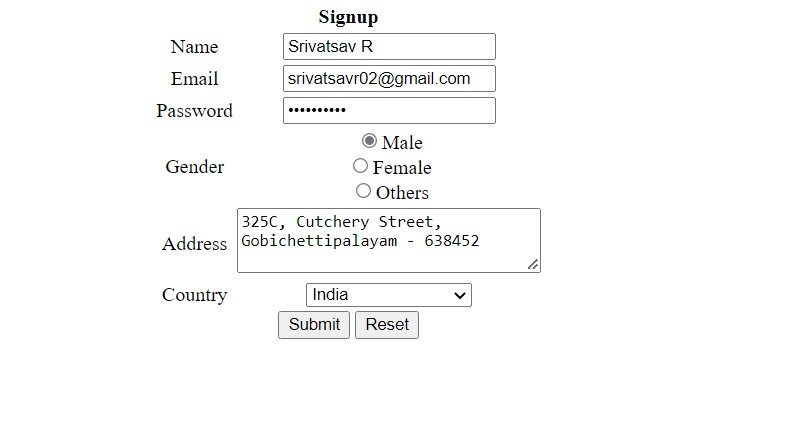
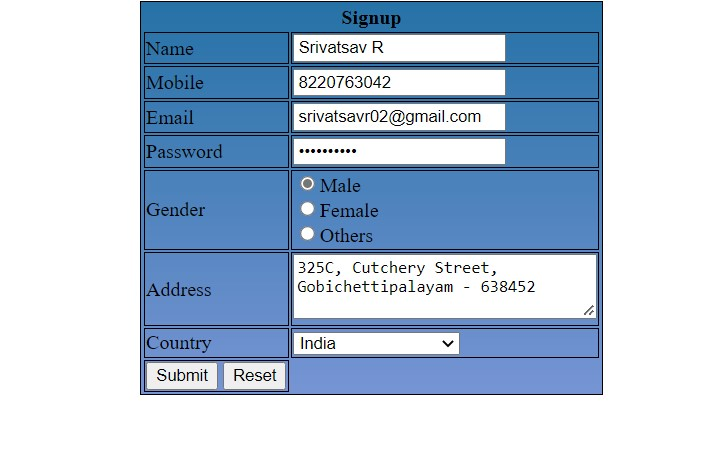
Assignment 1 & 2 completed - srivatsavr

diff --git a/Assignments/Team_Member3-Srivatsav_R/Assignment1/form.html b/Assignments/Team_Member3-Srivatsav_R/Assignment1/form.html
@@ -1,18 +1,12 @@
 <!DOCTYPE html>
 <html>
 <head>
-    <title>Register</title>
+    <title>Register for UCloud</title>
+    <link rel="stylesheet" href="form_style.css">
 </head>
-<style>
-    form{
-        text-align: center;
-        max-width: 500px;
-        margin: auto;
-    }
-</style>
 <body>
     <form method="post">
-        <table>
+        <table class="reg_form">
             <tr>	
                 <th colspan="2">Signup</th>
             </tr>
@@ -20,7 +14,10 @@
                 <td><label for="name">Name</label></td>
                 <td><input id="name" type="text" name="name" placeholder="Enter your name" required></td>
             </tr>
-            
+            <tr>
+                <td><label for="mobile">Mobile</label></td>
+                <td><input id="mobile" type="Number" name="mobile" placeholder="Enter your phone number" required></td>
+            </tr>
             <tr>
                 <td><label for="email">Email</label></td>
                 <td><input id="email" type="email" name="email" placeholder="Enter your email" required></td>
@@ -50,31 +47,31 @@
                     <option value="" selected disabled hidden>Choose country</option>
                     <option value="india">India</option>
                     <option value="us">United States</option>
-                    <option value="uk">United Kingdom</option>
-                    <option value="russia">Russia</option>
+                    <option value="finland">Finland</option>
                     <option value="australia">Australia</option>
-                    <option value="none">None of the above</option>
+                    <option value="nota">None of the above</option>
                 </select>    
                 </td>
             </tr>
             <tr rowspan="2">
-                <td colspan="2">
-                    <button type="button" onclick="submitForm()">Submit</button>
-                    <input id="button" type="reset" value="Reset" name="reset">
+                <td>
+                <button type="button" onclick="testJS()">Submit</button>
+                <input id="button" type="reset" value="Reset" name="reset">
                 </td>
             </tr>
         </table>
     </form>
 </body>
 <script>
-    function submitForm() {
-    
+    function testJS() {
+    console.log("Hello");
     var name = document.getElementById('name').value;
+    var mobile = document.getElementById('mobile').value;
     var email = document.getElementById('email').value;
     var gender = document.getElementById('gender').value;
     var address = document.getElementById('address').value;
     var country = document.getElementById('country').value;
-    url = './registration_success.html?name=' + encodeURIComponent(name)+'?email=' + encodeURIComponent(email)+'?gender=' + encodeURIComponent(gender)+'?address=' + encodeURIComponent(address)+'?country=' + encodeURIComponent(country);
+    url = './success_page.html?name=' + encodeURIComponent(name)+'?mobile=' + encodeURIComponent(mobile)+'?email=' + encodeURIComponent(email)+'?gender=' + encodeURIComponent(gender)+'?address=' + encodeURIComponent(address)+'?country=' + encodeURIComponent(country);
 
     document.location.href = url;
 }

diff --git a/Assignments/Team_Member3-Srivatsav_R/Assignment2/templates/register.html b/Assignments/Team_Member3-Srivatsav_R/Assignment2/templates/register.html
@@ -1,0 +1,27 @@
+<html>
+    <head>
+        <meta charset="UTF-8">
+        <title> Register </title>
+        <link rel="stylesheet" href="{{ url_for('static', filename='styles.css') }}">             
+    </head>
+    <body></br></br></br></br></br>
+        <div align="center">
+          <div align="center" class="border">
+             <div class="header">
+                <h1 class="word">Register</h1>
+             </div></br></br></br>
+            <h2 class="word">
+                <form action="{{ url_for('register') }}" method="post">
+                  <div class="msg">{{ msg }}</div>
+                    <input id="username" name="username" type="text" placeholder="Enter Your Username" class="textbox"/></br></br>
+                    <input id="email" name="email" type="text" placeholder="Enter Your Email ID" class="textbox"/></br></br>
+                    <input id="rollno" name="rollno" type="text" placeholder="Enter Your Rollno" class="textbox"/></br></br>
+                    <input id="password" name="password" type="password" placeholder="Enter Your Password" class="textbox"/></br></br>
+                    <input type="submit" class="btn" value="Register"></br>
+                </form>
+            </h2>
+            <p class="bottom">Already have an account?  <a class="bottom" href="{{url_for('login')}}"> Login</a></p>
+          </div>
+        </div>
+    </body>
+</html>

diff --git a/Assignments/Team_Member3-Srivatsav_R/Assignment2/templates/login.html b/Assignments/Team_Member3-Srivatsav_R/Assignment2/templates/login.html
@@ -1,0 +1,25 @@
+<html>
+    <head>
+        <meta charset="UTF-8">
+        <title> Login </title>
+        <link rel="stylesheet" href="{{ url_for('static', filename='styles.css') }}">          
+    </head>
+    <body></br></br></br></br></br>
+        <div align="center">
+          <div align="center" class="border">
+             <div class="header">
+                <h1 class="word">Login</h1>
+             </div></br></br></br>
+            <h2 class="word">
+                <form action="{{ url_for('login') }}" method="post">
+                  <div class="msg">{{ msg }}</div>
+                    <input id="username" name="username" type="text" placeholder="Enter Your Username" class="textbox"/></br></br>
+                    <input id="password" name="password" type="password" placeholder="Enter Your Password" class="textbox"/></br></br></br>
+                    <input type="submit" class="btn" value="Login"></br></br>
+                </form>
+            </h2>
+            <p class="bottom">Don't have an account?  <a class="bottom" href="{{url_for('register')}}"> Register</a></p>
+          </div>
+        </div>
+    </body>
+</html>

diff --git a/Assignments/Team_Member3-Srivatsav_R/Assignment2/static/styles.css b/Assignments/Team_Member3-Srivatsav_R/Assignment2/static/styles.css
@@ -1,0 +1,55 @@
+body {
+  background-color: #a9e8cc;
+}
+
+.header {
+  padding: 2px 120px;
+  width: 150px;
+  height: 70px;
+  background-color: #3fa778;
+}
+
+.border {
+  padding: 10px 50px;
+  width: 400px;
+  height: 500px;
+  border: 1px solid #3fa778;
+  border-radius: 30px;
+  background-color: #3fa778;
+}
+
+.btn {
+  padding: 10px 40px;
+  background-color: #3fa778;
+  color: #ffffff;
+  font-style: oblique;
+  font-weight: bold;
+  border-radius: 10px;
+}
+
+.textbox {
+  padding: 10px 40px;
+  background-color: #3fa778;
+  text-color: #ffffff;
+  border-radius: 10px;
+}
+
+::placeholder {
+  color: #ffffff;
+  opacity: 1;
+}
+
+.word {
+  color: #ffffff;
+}
+
+.bottom {
+  color: white;
+}
+
+.welcome {
+  vertical-align: middle;
+  padding-top: 100px;
+  size: 500px;
+  font-weight: bold;
+}

diff --git a/Assignments/Team_Member3-Srivatsav_R/Assignment2/templates/welcome.html b/Assignments/Team_Member3-Srivatsav_R/Assignment2/templates/welcome.html
@@ -1,0 +1,14 @@
+<!DOCTYPE html>
+<html>
+  <head>
+    <meta charset="UTF-8" />
+    <title>Welcome</title>
+    <link
+      rel="stylesheet"
+      href="{{ url_for('static', filename='styles.css') }}"
+    />
+  </head>
+  <body align="center" class="welcome">
+    <h1>Welcome!!</h1>
+  </body>
+</html>

diff --git a/Assignments/Team_Member3-Srivatsav_R/Assignment2/flaskapp.py b/Assignments/Team_Member3-Srivatsav_R/Assignment2/flaskapp.py
@@ -1,0 +1,42 @@
+from flask import Flask,render_template,request
+from mydb import connection as db
+
+
+app = Flask(__name__)
+
+@app.route("/",methods=['GET', 'POST'])
+@app.route("/register",methods=['GET', 'POST'])
+def register():
+    msg = ''
+    if request.method == 'POST':
+        name = request.form["username"]
+        email = request.form["email"]
+        rollno = request.form["rollno"]
+        password = request.form["password"]
+        print(name,email,rollno,password)
+        db.register(name,email,rollno,password)
+        return render_template('login.html', msg = msg) 
+    else:
+        return render_template('register.html', msg = msg)
+
+@app.route('/login', methods =['GET', 'POST'])
+def login():
+    msg = ''
+    if request.method == 'POST':
+        name = request.form["username"]
+        password = request.form["password"]
+        result_dict = db.login(name,password)
+        if result_dict != False:
+            return render_template('welcome.html',msg = msg)
+        return render_template('login.html', msg = msg)
+
+    else:
+        return render_template('login.html', msg = msg)
+
+@app.route('/welcome', methods =['GET', 'POST'])
+def welcome():
+    msg = ''
+    return render_template('welcome.html', msg = msg)
+
+if __name__=="__main__":
+    app.run(debug=True)

diff --git a/Assignments/Team_Member3-Srivatsav_R/Assignment2/mydb/connection.py b/Assignments/Team_Member3-Srivatsav_R/Assignment2/mydb/connection.py
@@ -1,0 +1,28 @@
+import ibm_db
+
+try:
+    conn = ibm_db.connect("DATABASE=bludb;HOSTNAME=98538591-7217-4024-b027-8baa776ffad1.c3n41cmd0nqnrk39u98g.databases.appdomain.cloud;PORT=30875;PROTOCOL=TCPIP;UID=klm43088;PWD=M7zf1Uyjkyxay7o3;Security=SSL;SSLSecurityCertificate=DigiCertGlobalRootCA.crt", "", "")
+    print("Connected to the database")
+except:
+    print("Error in connecting to the database: ", ibm_db.conn_errormsg())
+
+
+def register(name, email, rollno, password):
+    insert_sql = "INSERT INTO  WHW07299.USER VALUES (?, ?, ?, ?)"
+    prep_stmt = ibm_db.prepare(conn, insert_sql)
+    ibm_db.bind_param(prep_stmt, 1, name)
+    ibm_db.bind_param(prep_stmt, 2, email)
+    ibm_db.bind_param(prep_stmt, 3, rollno)
+    ibm_db.bind_param(prep_stmt, 4, password)
+    ibm_db.execute(prep_stmt)
+
+
+def login(name, password):
+    select_sql = "SELECT * FROM  WHW07299.USER WHERE USERNAME = ? AND PASSWORD = ?"
+    prep_stmt = ibm_db.prepare(conn, select_sql)
+    ibm_db.bind_param(prep_stmt, 1, name)
+    ibm_db.bind_param(prep_stmt, 2, password)
+    out = ibm_db.execute(prep_stmt)
+    result_dict = ibm_db.fetch_assoc(prep_stmt)
+    print(result_dict)
+    return result_dict
